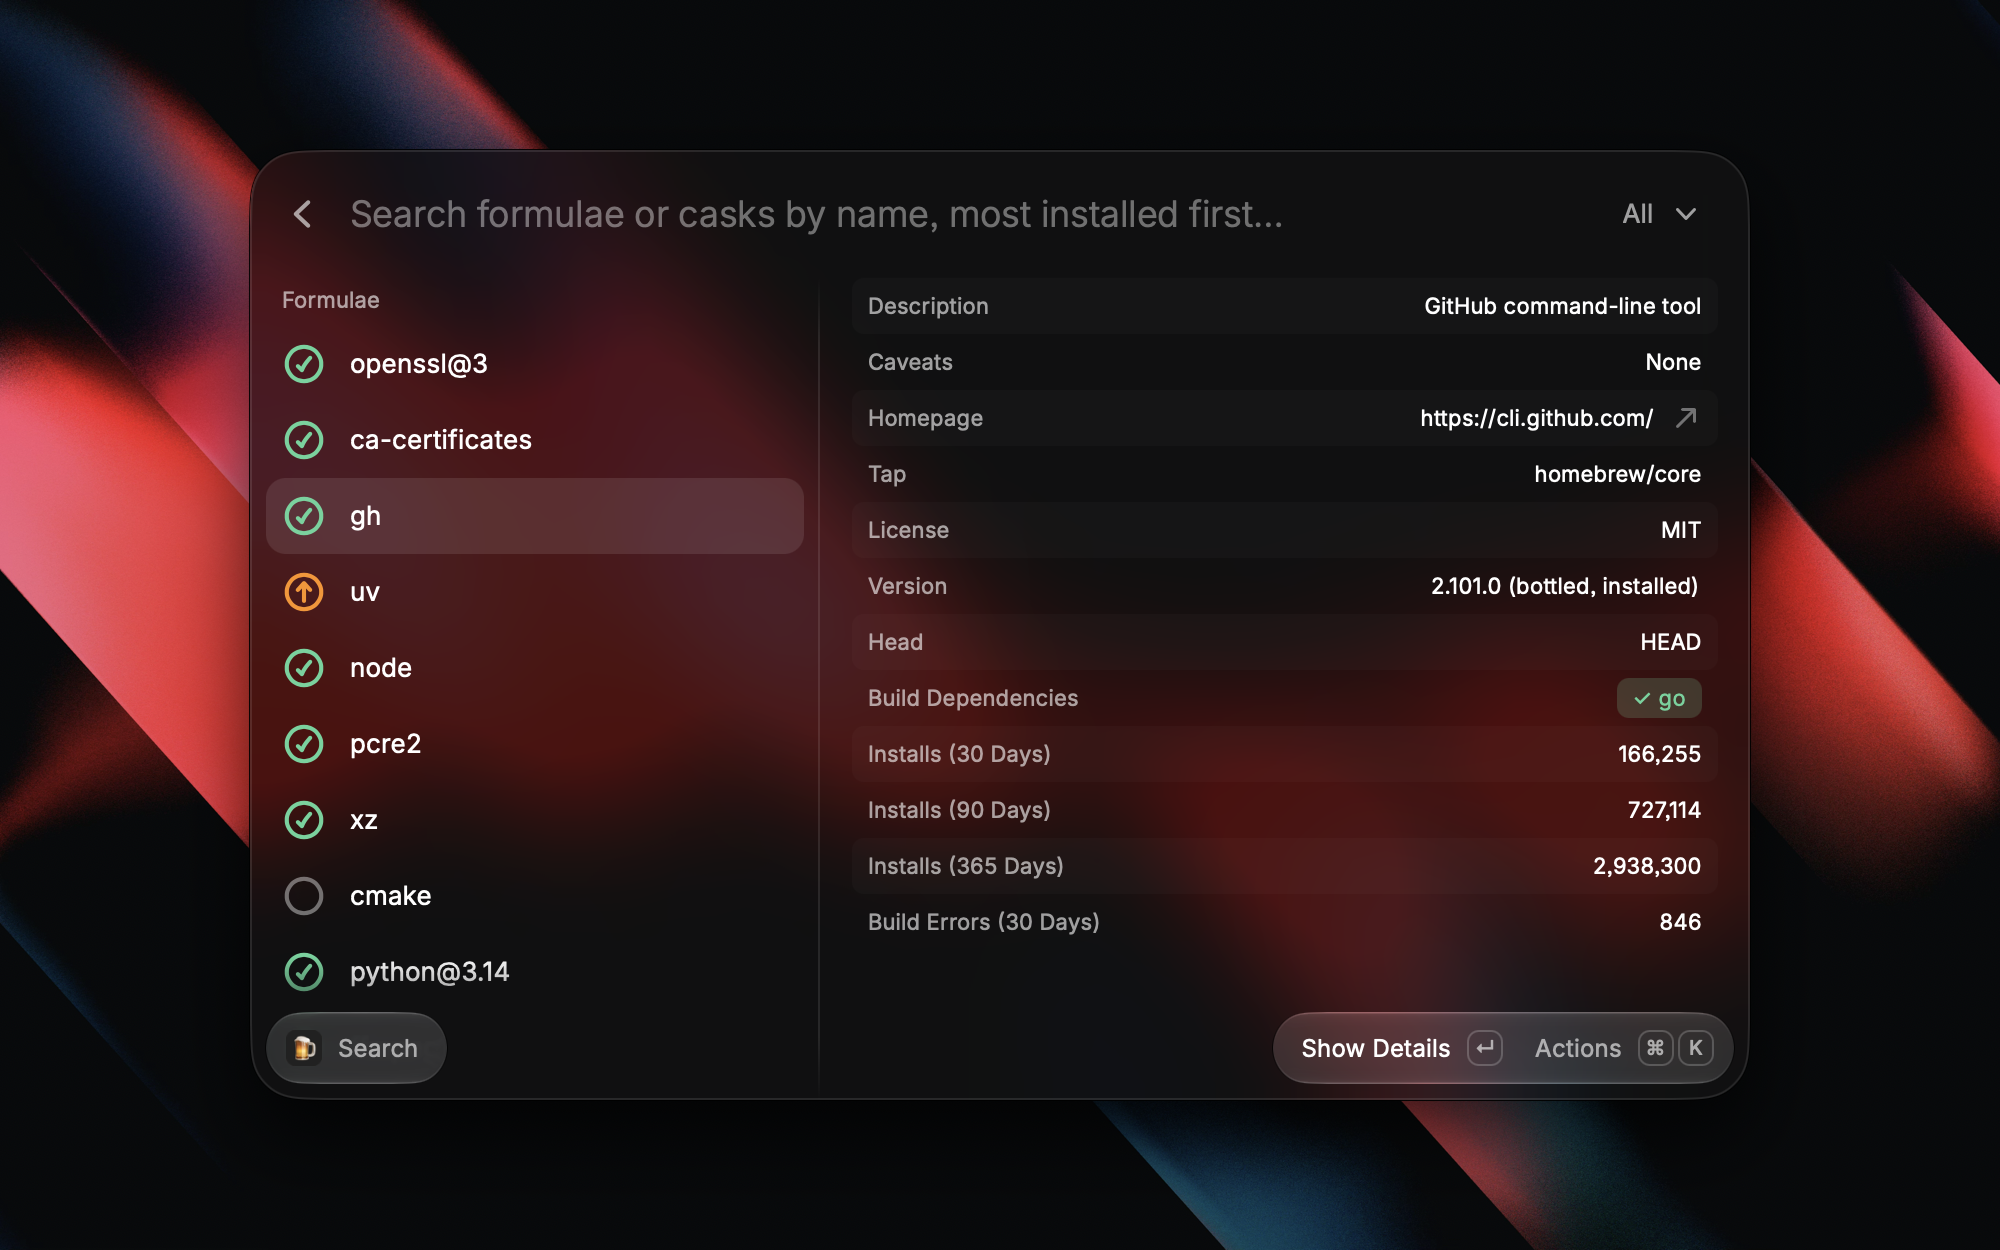
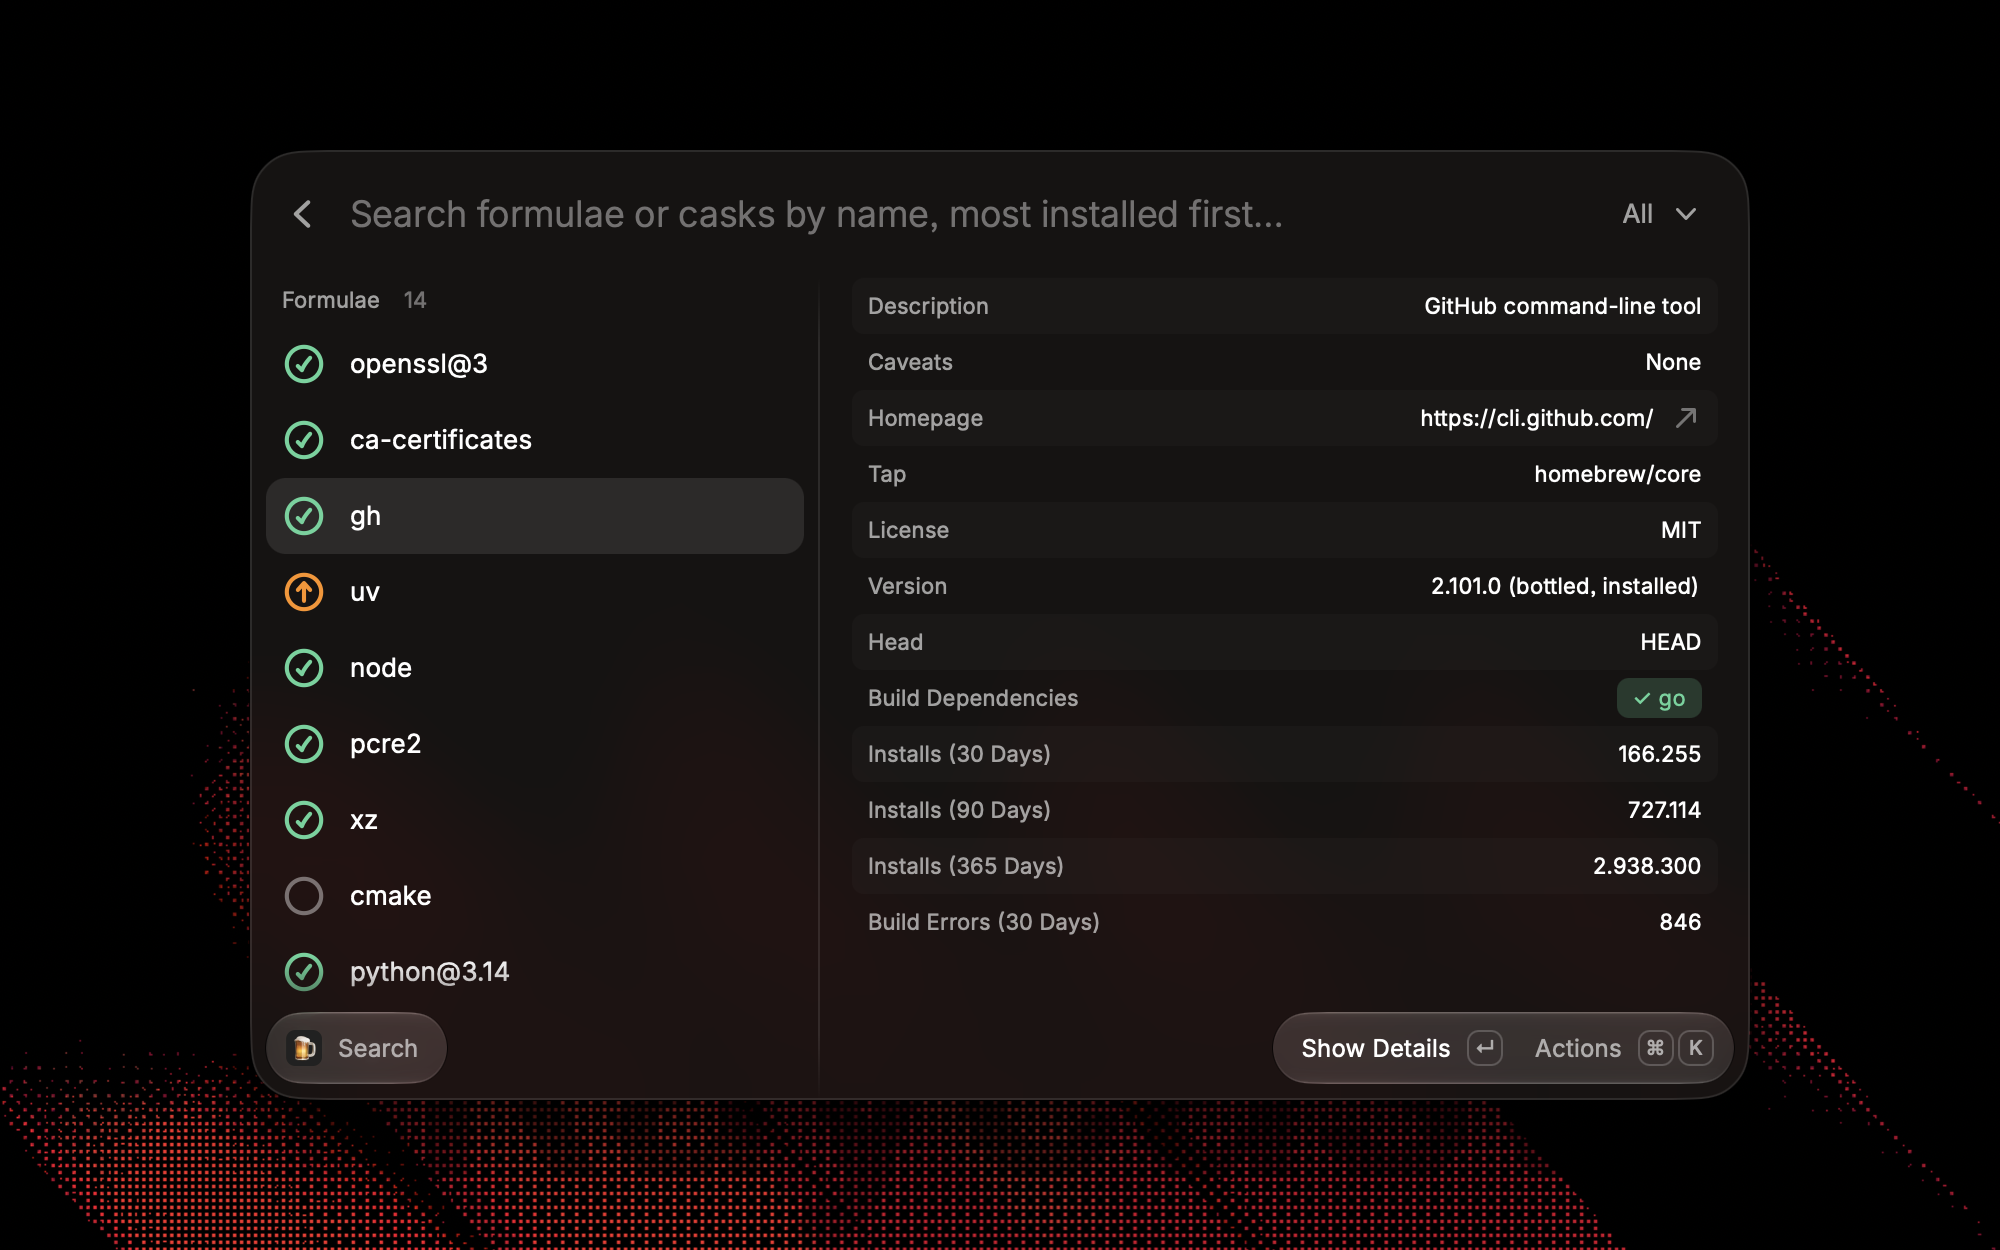
Add new screenshots for multiple extensions (#32283)
* Add new screenshots for multiple extensions

* Update CHANGELOG.md and optimise images

---------

diff --git a/CHANGELOG.md b/CHANGELOG.md
@@ -1,5 +1,7 @@
 # Brew Changelog
 
+## [Added new screenshots] - 2026-10-13
+
 ## [Remove Tap fix] - 2026-10-04
 
 - Fixed: on Homebrew 6.0.12 and earlier, Remove Tap left the tap's installed packages behind although its confirmation said they would be uninstalled. It now uninstalls them, then removes the tap, on every Homebrew version, and keeps the tap if a package can't be uninstalled
